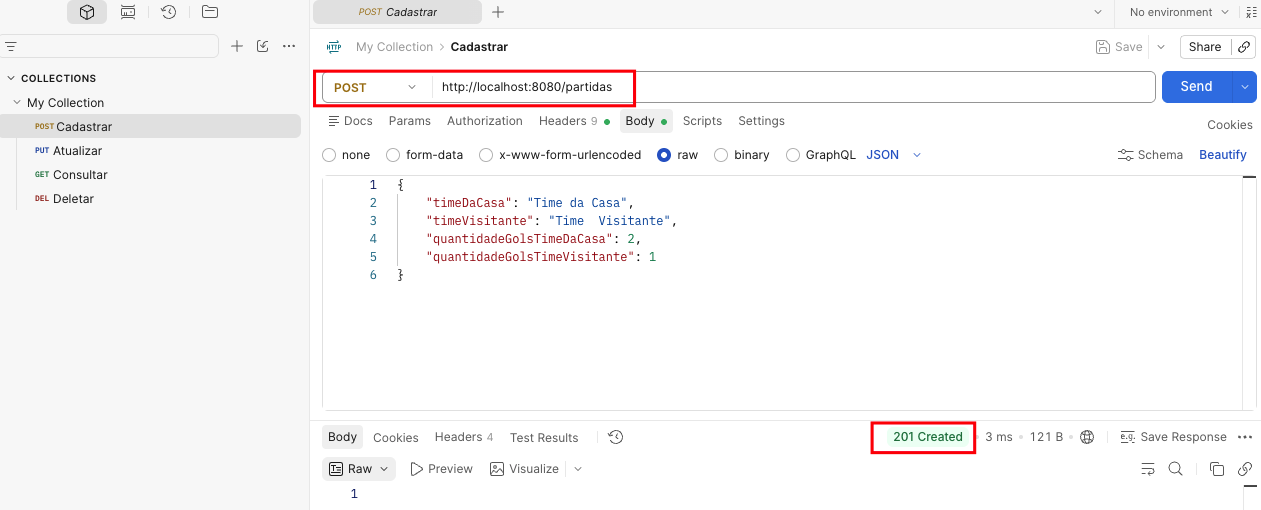
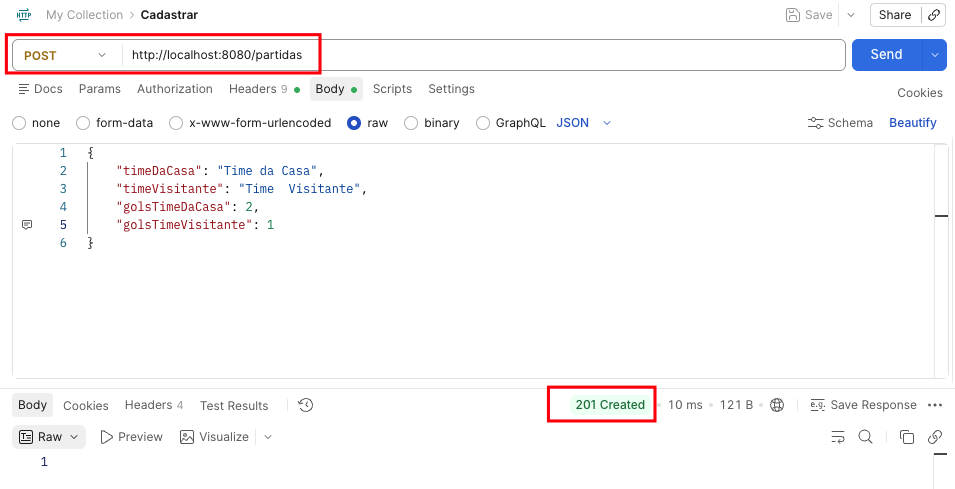
Material apoio 02-aula

diff --git a/01-semana/02-aula/README.md b/01-semana/02-aula/README.md
@@ -313,6 +313,10 @@ Nesta aula:
 - mapeamos operações CRUD para endpoints HTTP;
 - conhecemos as responsabilidades iniciais de Controller, Service e Repository.
 
+## 11. Branches
+
+- 02-exemplo-consultando-lista `CRUD consultando os dados de uma lista`
+
 ## Próxima evolução
 
 Na próxima etapa, poderemos substituir o armazenamento temporário por persistência em banco de dados, introduzir a camada Repository e melhorar os retornos HTTP e o tratamento de erros.
